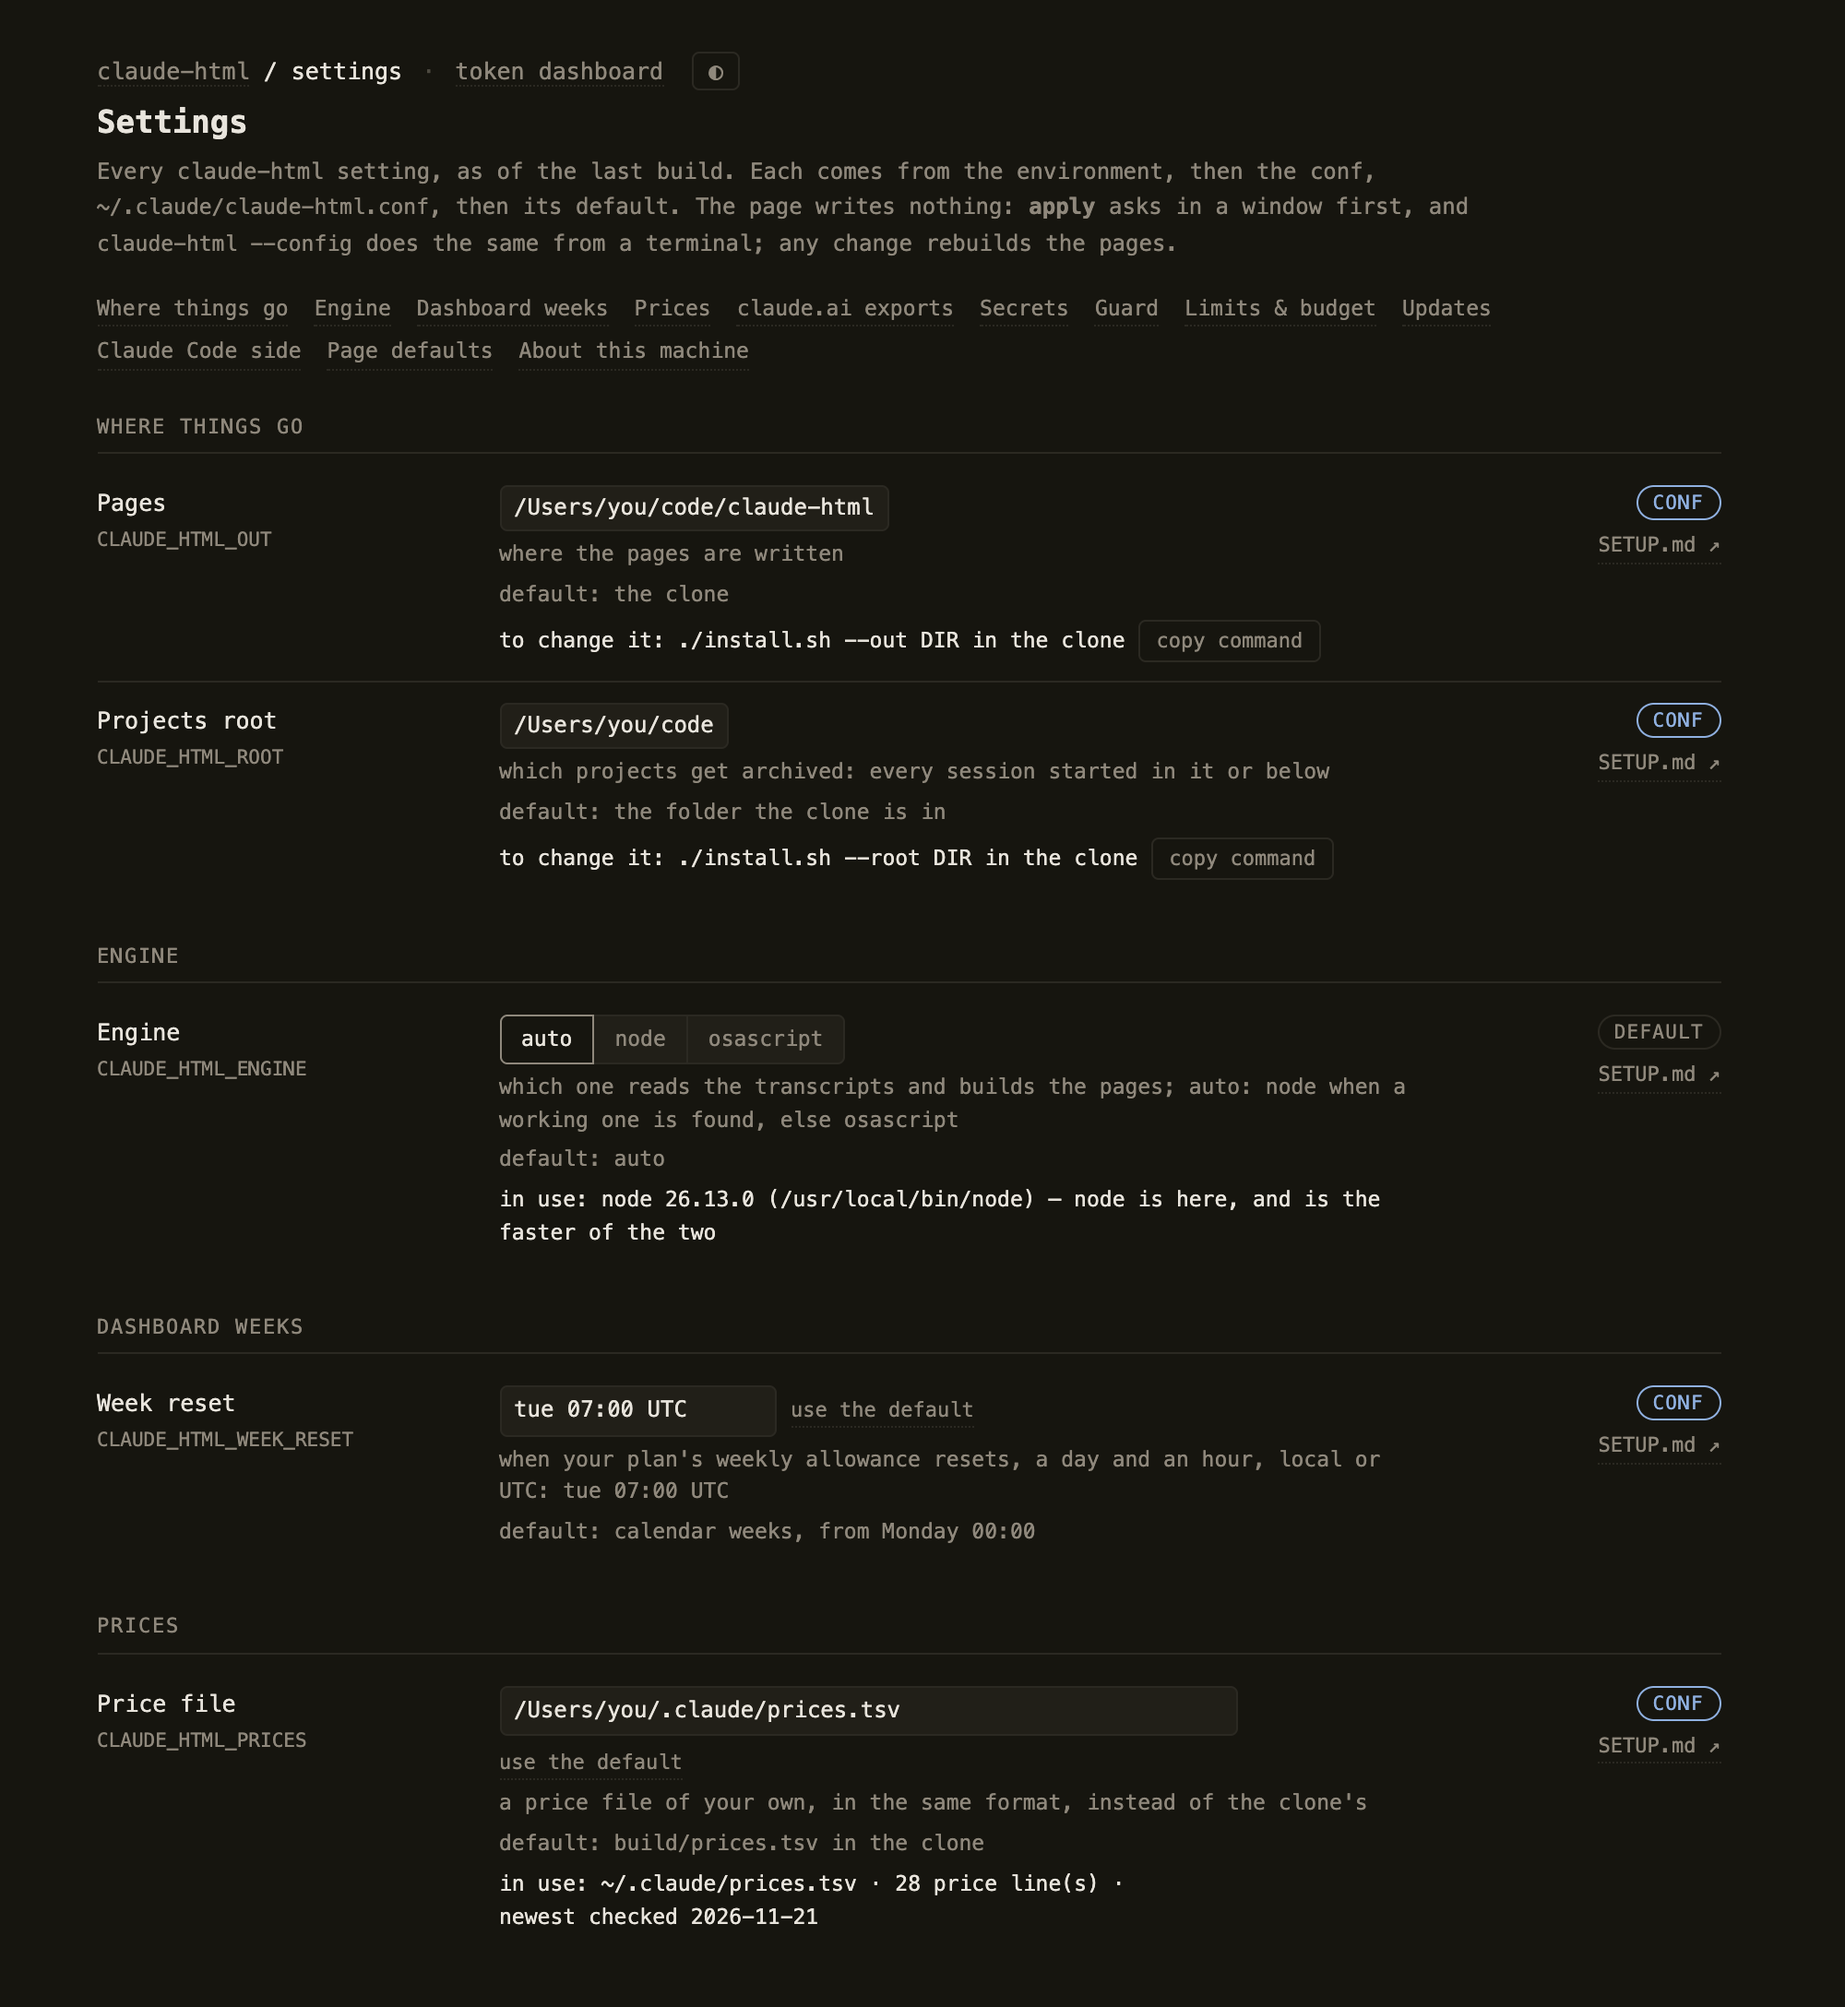
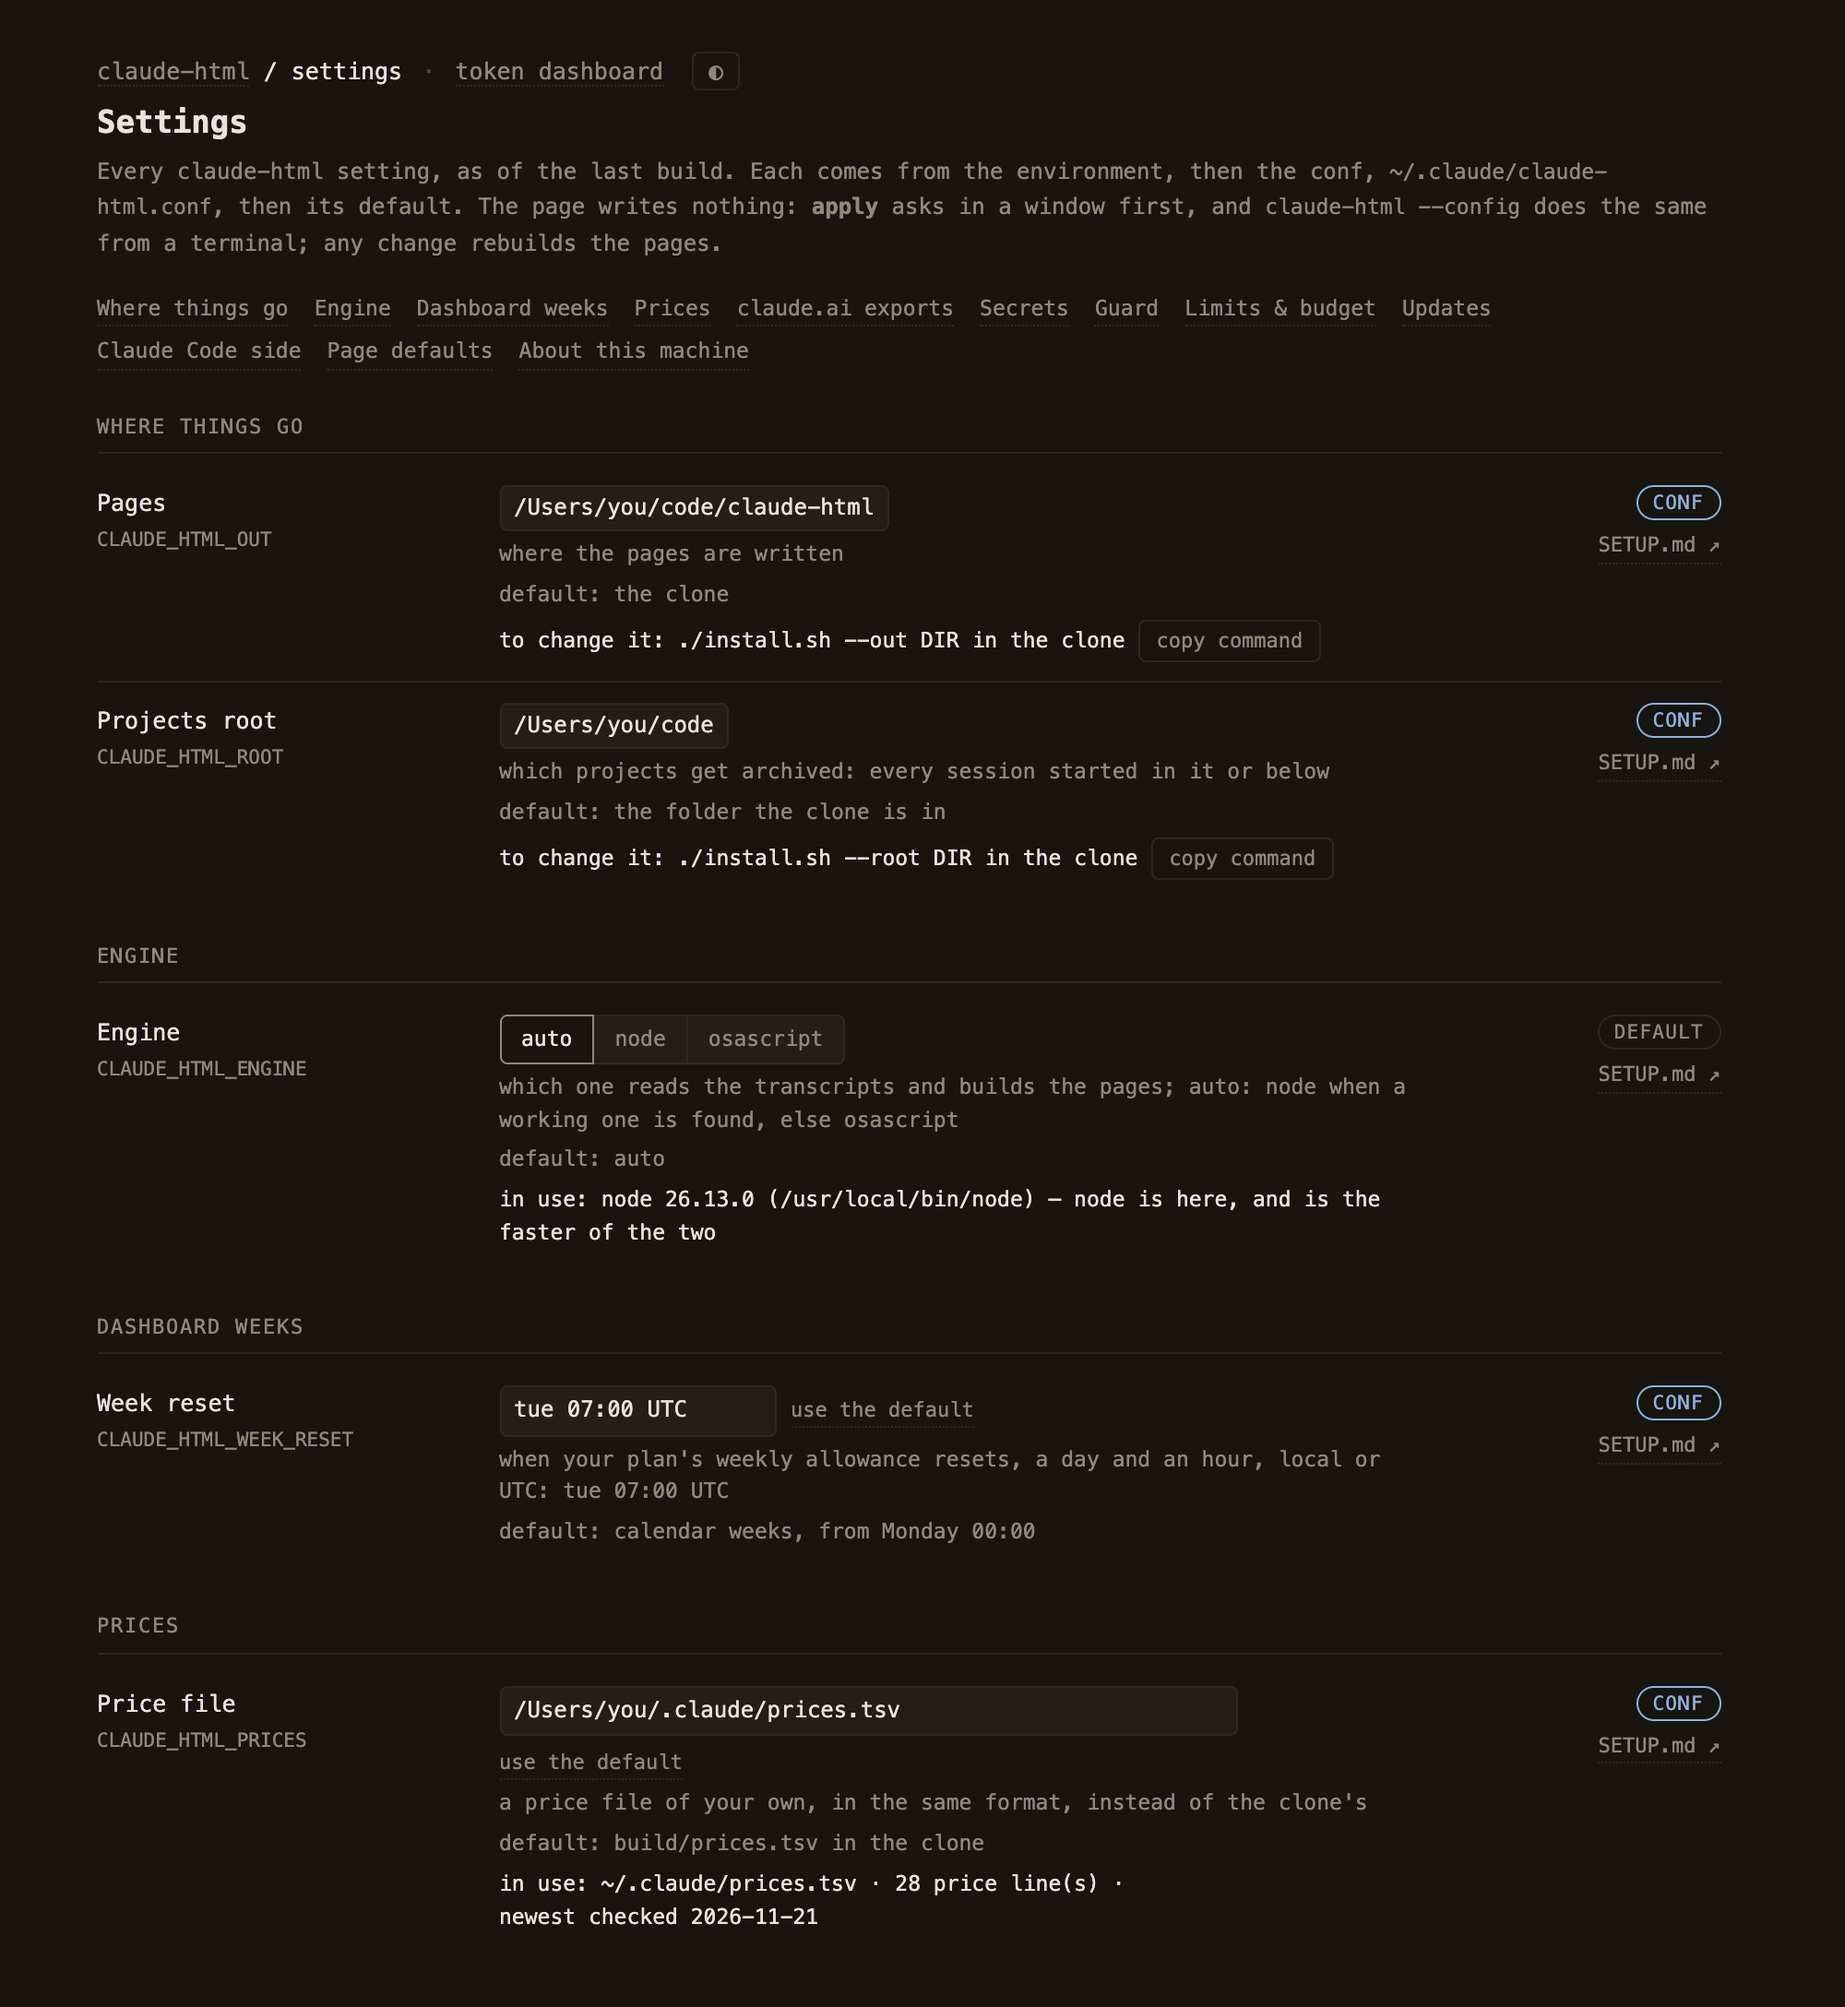
release of v3.6.3

diff --git a/viewer/settings.html b/viewer/settings.html
@@ -8,13 +8,13 @@
 :root{--sok:#2f6f4f;--sconf:#3d5f8f;--schg:#a8621c}
 @media(prefers-color-scheme:dark){:root:not([data-theme=light]){--sok:#7fc79b;--sconf:#8fb0e0;--schg:#e0a060}}
 :root[data-theme=dark]{--sok:#7fc79b;--sconf:#8fb0e0;--schg:#e0a060}
-main.st{max-width:min(1040px,92vw);padding-bottom:120px}
+main.st{padding-bottom:120px}
 .crumb{font-size:12.5px;margin:0 0 4px}
 .crumb a{color:var(--dim);text-decoration:none;border-bottom:1px dotted var(--line)}
 .crumb a:hover{color:var(--fg);border-bottom-color:var(--dim)}
 .crumb .sep{color:var(--dim);opacity:.45;margin:0 3px}
 .crumb .th{margin-left:8px}
-p.sub{max-width:760px;line-height:1.6}
+p.sub{line-height:1.6}
 p.sub code,.sh code,.sx code{font-size:11.5px}
 .toc{display:flex;flex-wrap:wrap;gap:4px 14px;font-size:11.5px;margin:0 0 6px}
 .toc a{color:var(--dim);border-bottom:1px dotted var(--line)}
@@ -78,7 +78,7 @@ button.cp.danger.on{color:var(--schg);border-color:var(--schg)}
 /* The changes, gathered at the foot of the window while there are any. */
 .sbar{position:fixed;left:0;right:0;bottom:0;background:var(--bg);border-top:1px solid var(--dim);
 box-shadow:0 -6px 18px rgba(0,0,0,.08);z-index:5}
-.sbar .in{max-width:min(1040px,92vw);margin:0 auto;padding:10px 20px;display:flex;flex-wrap:wrap;align-items:center;
+.sbar .in{max-width:var(--col);margin:0 auto;padding:10px 20px;display:flex;flex-wrap:wrap;align-items:center;
 gap:6px 10px;font-size:12.5px}
 .sbar b{color:var(--schg)}
 .sbar .bs{color:var(--dim);opacity:.6}
@@ -86,6 +86,16 @@ gap:6px 10px;font-size:12.5px}
 .sbar a.go.off,.sbar button[disabled]{opacity:.45;cursor:default}
 .sbar .bh{color:var(--dim);font-size:11px;flex-basis:100%}
 .sbar pre{margin:0;flex-basis:100%;font-size:11px;color:var(--dim);white-space:pre-wrap;word-break:break-all}
+/* As wide as the other pages; with the room, the field on the left and
+   what it means beside it, so a setting takes two or three lines, not six. */
+@media(min-width:1180px){
+.srow{grid-template-columns:220px minmax(0,1fr) 150px}
+.sv{display:grid;grid-template-columns:minmax(0,1fr) minmax(0,1.15fr);column-gap:28px;align-content:start}
+.sv>*{grid-column:2}
+.sv>.sc{grid-column:1;grid-row:1/span 8;align-self:start}
+.sv>:nth-child(2){margin-top:0}
+.sv>.sc input[type=text]{width:100%}
+}
 @media(max-width:760px){
 main.st{padding:20px 16px 160px}
 .srow{grid-template-columns:minmax(0,1fr);margin-left:-13px}

diff --git a/CHANGELOG.md b/CHANGELOG.md
@@ -5,6 +5,12 @@ fixes, a minor adds without breaking, a major needs something from you
 (usually `./install.sh` again). To update: `claude-html --update`; before
 3.1.0, `git checkout main && git pull && ./install.sh`.
 
+## 3.6.3 — 2026-11-25
+
+- The Settings page is as wide as the other pages, and on a wide screen each
+  setting's field sits beside what it means, so it takes two or three lines
+  rather than six.
+
 ## 3.6.2 — 2026-11-25
 
 - Tests: a run of the suites no longer opens pages in your browser or brings

diff --git a/README.md b/README.md
@@ -87,7 +87,7 @@ git clone https://github.com/pier0074/claude-html ~/claude-html
 cd ~/claude-html && ./install.sh
 ```
 
-For a given release, add `--branch v3.6.2` to the clone;
+For a given release, add `--branch v3.6.3` to the clone;
 [CHANGELOG.md](CHANGELOG.md) says what each one brought.
 
 Nothing else to install. macOS uses its own `osascript`; Linux uses `node`,
